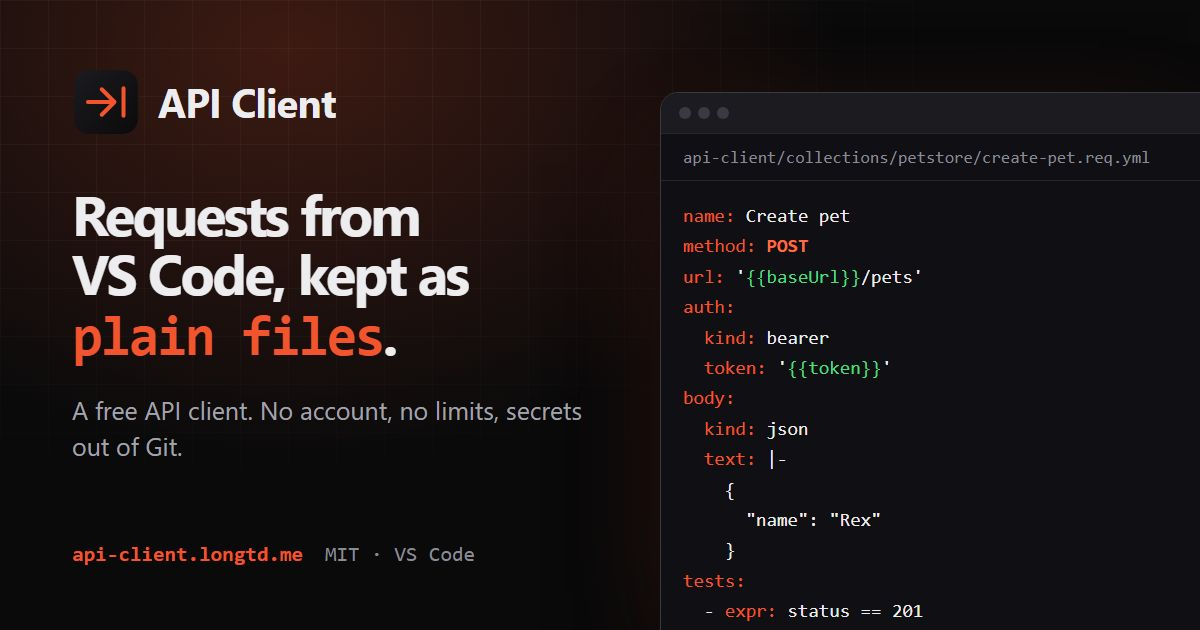
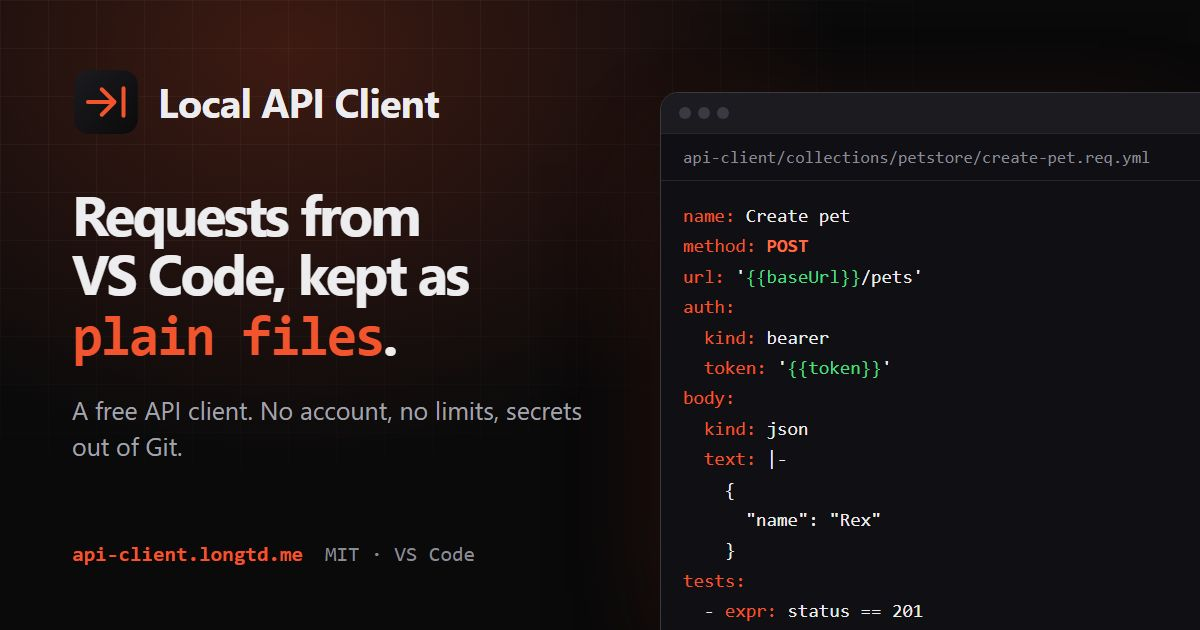
Call the extension Local API Client: the Marketplace already has an API Client
The upload was refused a second time: "This extension display name is taken" (SayanMaity.apiClient is called API Client, and dayemsiddiqui.api-client
api-client). The display name is now Local API Client, which is free and matches the extension name; the READMEs, the changelogs, the landing page, its
social card and its web manifest say so. The commands, the views and the title of the activity bar keep the short "API Client", which is the label of
the interface and not the name of the listing.

Changed region(s): [[0.1233, 0.1206, 0.37, 0.2111]]

diff --git a/site/index.html b/site/index.html
@@ -174,7 +174,7 @@
           <div class="window">
             <div class="window-bar" aria-hidden="true"><span></span><span></span><span></span></div>
             <img src="img/hero.png" width="1400" height="830" fetchpriority="high" decoding="async"
-              alt="API Client in VS Code, dark theme: the collections and environments in the side bar, a GET request for available pets on the left, and its answer on the right, 200 OK in 6 ms with all 4 tests passed and the JSON body">
+              alt="Local API Client in VS Code, dark theme: the collections and environments in the side bar, a GET request for available pets on the left, and its answer on the right, 200 OK in 6 ms with all 4 tests passed and the JSON body">
           </div>
           <figcaption>Made-up data in a demo workspace. The collections and the environment in the side bar, the request in the editor, and the answer beside it with its tests. Everything on the left is a file in the repository.</figcaption>
         </figure>

diff --git a/site/og/og-card.html b/site/og/og-card.html
@@ -3,7 +3,7 @@
 <html lang="en" data-theme="dark">
 <head>
   <meta charset="utf-8">
-  <title>API Client social card</title>
+  <title>Local API Client social card</title>
   <link rel="stylesheet" href="../styles.css">
   <style>
     html,
@@ -159,7 +159,7 @@
     <div class="og-copy">
       <div class="og-brand">
         <img src="../favicon.svg" width="68" height="68" alt="">
-        <span class="og-brand-name">API Client</span>
+        <span class="og-brand-name">Local API Client</span>
       </div>
       <h1 class="og-title">Requests from VS&nbsp;Code, kept as <code>plain files</code>.</h1>
       <p class="og-lead">A free API client. No account, no limits, secrets out of Git.</p>

diff --git a/README.md b/README.md
@@ -1,4 +1,4 @@
-# API Client
+# Local API Client
 
 [![CI](https://github.com/nhech/api-client/actions/workflows/ci.yml/badge.svg)](https://github.com/nhech/api-client/actions/workflows/ci.yml)
 [![License: MIT](https://img.shields.io/badge/license-MIT-blue.svg)](LICENSE)
@@ -44,7 +44,7 @@ Vietnamese: [README.vi.md](README.vi.md).
 
 ## Quick start
 
-Install **API Client** from the [Visual Studio Marketplace](https://marketplace.visualstudio.com/items?itemName=longtd.local-api-client) (Extensions view, search for it, or `ext install longtd.local-api-client`), or from Open VSX. It needs VS Code 1.100 or newer, a **trusted** local workspace (it is off in Restricted Mode, in the browser and in virtual workspaces) and runs where your files are (also over Remote SSH, WSL and containers, which have not been tried by hand yet).
+Install **Local API Client** from the [Visual Studio Marketplace](https://marketplace.visualstudio.com/items?itemName=longtd.local-api-client) (Extensions view, search for it, or `ext install longtd.local-api-client`), or from Open VSX. It needs VS Code 1.100 or newer, a **trusted** local workspace (it is off in Restricted Mode, in the browser and in virtual workspaces) and runs where your files are (also over Remote SSH, WSL and containers, which have not been tried by hand yet).
 
 1. Open a folder and the **API Client** icon in the Activity Bar. *New Collection...* creates `api-client/collections/<name>/`.
 2. *New Request...* on the collection. Type an address, press **Ctrl+Enter** (**Cmd+Enter** on a Mac) or the Send button.

diff --git a/README.vi.md b/README.vi.md
@@ -1,4 +1,4 @@
-# API Client
+# Local API Client
 
 [![CI](https://github.com/nhech/api-client/actions/workflows/ci.yml/badge.svg)](https://github.com/nhech/api-client/actions/workflows/ci.yml)
 [![License: MIT](https://img.shields.io/badge/license-MIT-blue.svg)](LICENSE)
@@ -25,7 +25,7 @@ English: [README.md](README.md) (bản đầy đủ nhất).
 
 ## Bắt đầu nhanh
 
-Cài **API Client** từ [Visual Studio Marketplace](https://marketplace.visualstudio.com/items?itemName=longtd.local-api-client) (tìm trong Extensions, hoặc `ext install longtd.local-api-client`) hoặc từ Open VSX. Cần VS Code 1.100 trở lên và workspace cục bộ **đã tin cậy** (tắt trong Restricted Mode, trên trình duyệt và trong workspace ảo). Remote SSH, WSL và container chưa được thử bằng tay.
+Cài **Local API Client** từ [Visual Studio Marketplace](https://marketplace.visualstudio.com/items?itemName=longtd.local-api-client) (tìm trong Extensions, hoặc `ext install longtd.local-api-client`) hoặc từ Open VSX. Cần VS Code 1.100 trở lên và workspace cục bộ **đã tin cậy** (tắt trong Restricted Mode, trên trình duyệt và trong workspace ảo). Remote SSH, WSL và container chưa được thử bằng tay.
 
 1. Mở một thư mục và biểu tượng **API Client** ở Activity Bar. *New Collection...* tạo `api-client/collections/<tên>/`.
 2. *New Request...* trên collection. Gõ địa chỉ rồi bấm **Ctrl+Enter** (**Cmd+Enter** trên Mac) hoặc nút Send.

diff --git a/extension/CHANGELOG.md b/extension/CHANGELOG.md
@@ -2,7 +2,7 @@
 
 ## 0.2.0
 
-A full API client, in the same extension: a request editor with the answer beside it, collections, folders and environments in native trees, requests as plain YAML files with a generated `.http` copy, variables and secrets kept out of Git, authentication including OAuth 2.0, tests and captures, JavaScript scripts that run in a sandbox only after you allowed their exact text, a collection runner with JSON and JUnit reports, imports from OpenAPI and Swagger, from the routes of your controllers, from Thunder Client, Postman and cURL, a Code tab, cookies and history. The extension is now **API Client** (`longtd.local-api-client`).
+A full API client, in the same extension: a request editor with the answer beside it, collections, folders and environments in native trees, requests as plain YAML files with a generated `.http` copy, variables and secrets kept out of Git, authentication including OAuth 2.0, tests and captures, JavaScript scripts that run in a sandbox only after you allowed their exact text, a collection runner with JSON and JUnit reports, imports from OpenAPI and Swagger, from the routes of your controllers, from Thunder Client, Postman and cURL, a Code tab, cookies and history. The extension is now **Local API Client** (`longtd.local-api-client`).
 
 ## 0.1.0 (as HTTP Files Importer)
 

diff --git a/CHANGELOG.md b/CHANGELOG.md
@@ -23,7 +23,7 @@ The extension is now a full API client (extension id `longtd.local-api-client`);
 
 ### Changed
 
-- Extension id, display name and description: **API Client**, `longtd.local-api-client`. The older commands that write `.http` files for Thunder Client data are still there under *Convert Thunder Client Data to .http Files...*, and documented in `docs/converter.md`.
+- Extension id, display name and description: **Local API Client**, `longtd.local-api-client`. The older commands that write `.http` files for Thunder Client data are still there under *Convert Thunder Client Data to .http Files...*, and documented in `docs/converter.md`.
 - The claim "no network" is replaced by what is true: the extension sends the requests you send (and, for OAuth 2.0, the requests to the token server you configured) and nothing else; the converter and the readers of other tools' files still have no network access.
 
 ## 0.1.0 - 2026-10-21

diff --git a/extension/README.md b/extension/README.md
@@ -1,4 +1,4 @@
-# API Client
+# Local API Client
 
 A free, **local-first API client for VS Code**. Your requests are plain files in your repository: no account, no limits on collections or requests, no telemetry, no server of ours. Write a request, press Send, read the answer next to it, and review the same files in a pull request.
 
